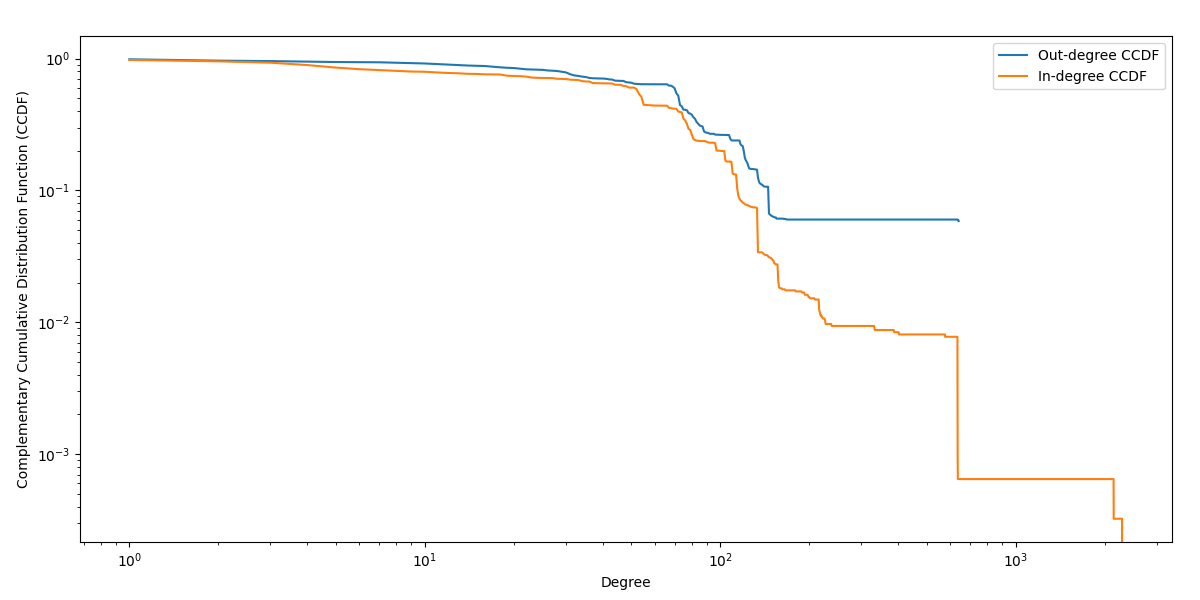
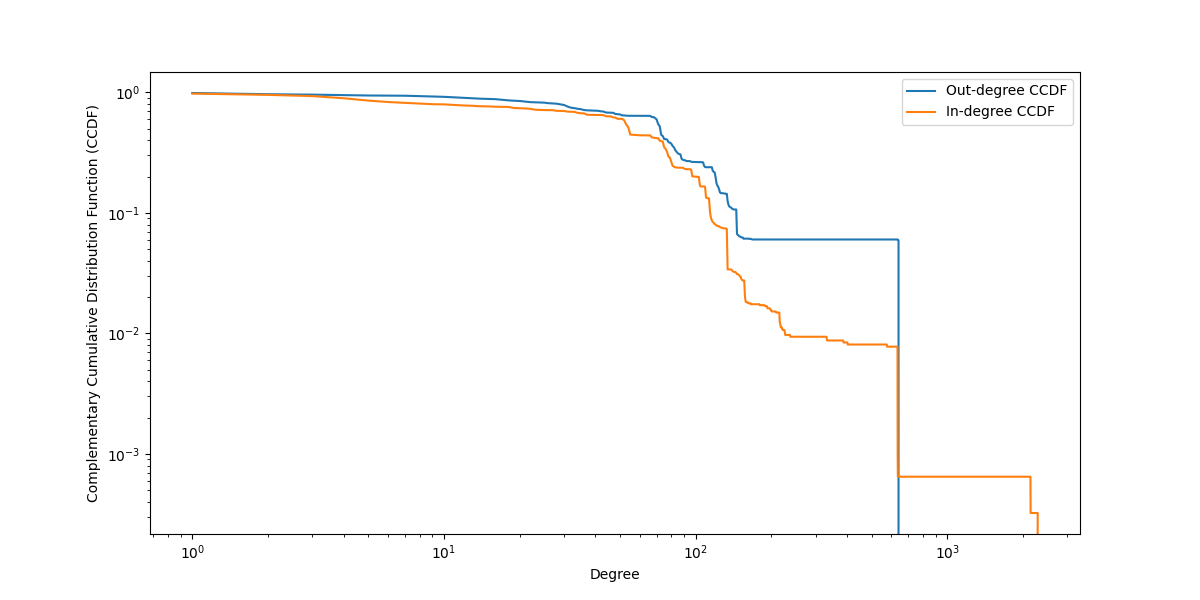
Fix drop-off on CCDF

diff --git a/HW2/analyze_csv.py b/HW2/analyze_csv.py
@@ -78,6 +78,16 @@ in_degree_values = np.array(list(indegrees.values()))
 out_degree_ccdf = 1 - np.cumsum(np.bincount(out_degree_values)[1:]) / G.number_of_nodes()
 in_degree_ccdf = 1 - np.cumsum(np.bincount(in_degree_values)[1:]) / G.number_of_nodes()
 
+# Make arrays equal length 
+diff = len(in_degree_ccdf) - len(out_degree_ccdf) 
+if diff > 0: 
+    for i in range(diff): 
+        out_degree_ccdf = np.append(out_degree_ccdf, 0)
+else: 
+    for i in range(diff):
+        in_degree_ccdf = np.append(in_degree_ccdf, 0)
+diff = len(in_degree_ccdf) - len(out_degree_ccdf) 
+
 plt.clf()
 plt.loglog(np.arange(1, len(out_degree_ccdf) + 1), out_degree_ccdf, label='Out-degree CCDF')
 plt.loglog(np.arange(1, len(in_degree_ccdf) + 1), in_degree_ccdf, label='In-degree CCDF')
